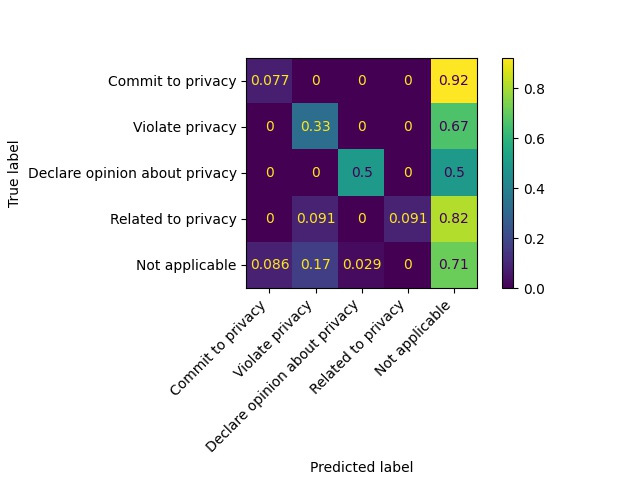
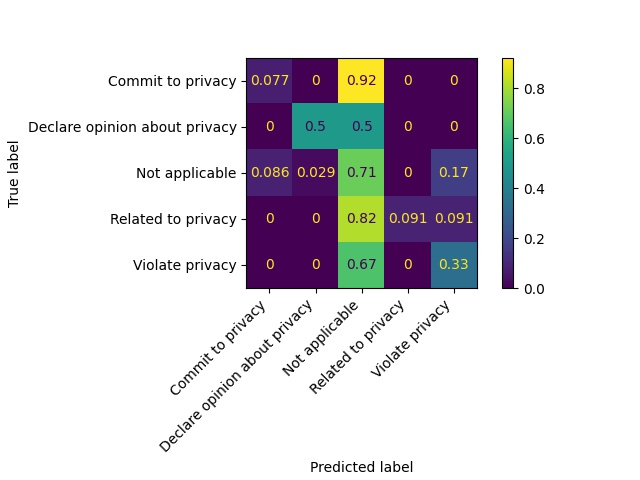
changed aiclassifier confusion matrix to display labels in alphabetical order

diff --git a/AIclassifier.py b/AIclassifier.py
@@ -143,7 +143,7 @@ predictions = model.predict(dev_matrix_array)
 # Confusion matrix
 dev_list = dev_labels_primary.tolist()
 pred_list = [pred for pred in predictions]
-metrics.ConfusionMatrixDisplay.from_predictions(dev_list,pred_list, normalize="true", labels=[1,2,3,4,5],display_labels=['Commit to privacy', 'Violate privacy', 'Declare opinion about privacy', 'Related to privacy', 'Not applicable'])
+metrics.ConfusionMatrixDisplay.from_predictions(dev_list,pred_list, normalize="true", labels=[1,3,5,4,2],display_labels=['Commit to privacy', 'Declare opinion about privacy','Not applicable','Related to privacy','Violate privacy']) # alphabetical order
 plt.xticks(rotation=45, ha="right")
 plt.subplots_adjust(bottom=0.4)
 #plt.show()
